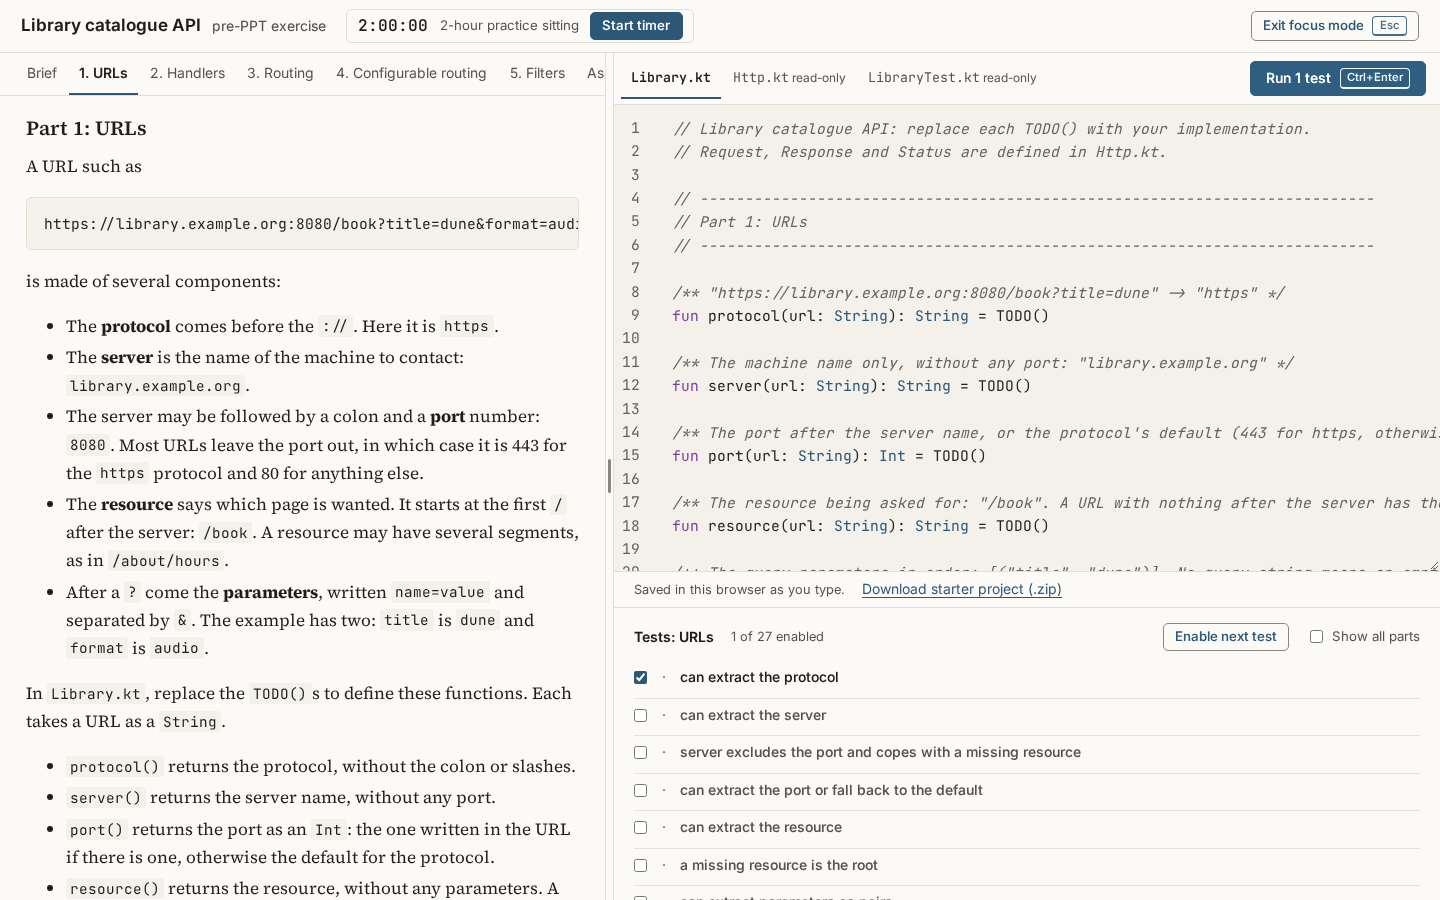
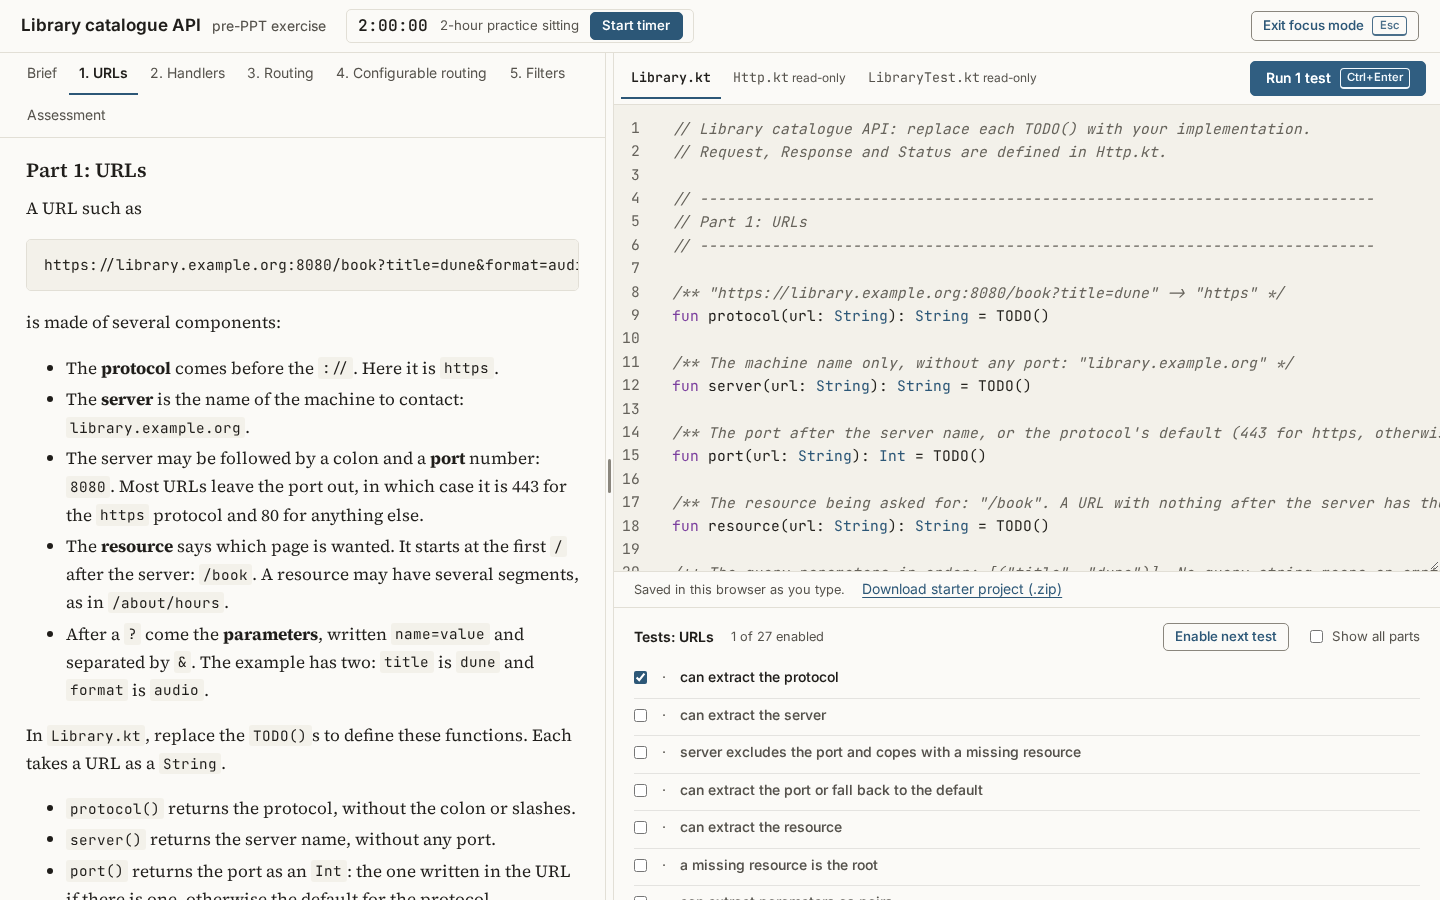
Pre-PPT: part tabs wrap instead of clipping; e2e check that every tab fits its row
The spec tab row was a horizontal scroller, so at 1440px the last tab was cut
off. It now wraps onto a second line at any pane width, the instructions pane
has a minimum width, and tests assert no tab leaves the row at 1440, 1280,
with the divider at its minimum, and at phone width, in and out of focus mode.

Changed region(s): [[0.0312, 0.28, 0.4062, 1.0], [0.0, 0.1244, 0.125, 0.2489], [0.1875, 0.2178, 0.4062, 0.2489]]

diff --git a/tests/smoke.spec.ts b/tests/smoke.spec.ts
@@ -192,6 +192,48 @@ test.describe('pre-PPT', () => {
     await expect(page.getByRole('button', { name: /^Run 3 tests/ })).toBeVisible()
   })
 
+  // Every part tab must be fully inside the tab row: none clipped, none hidden behind a scroll.
+  for (const [width, height, split] of [
+    [1440, 900, null],
+    [1280, 800, null],
+    [1440, 900, 25],
+    [1280, 800, 25],
+    [1024, 768, 25],
+    [390, 844, null],
+  ] as [number, number, number | null][]) {
+    for (const focus of [false, true]) {
+      test(`part tabs fit at ${width}px${split ? `, divider at ${split}%` : ''}${focus ? ', focus mode' : ''}`, async ({ page }) => {
+        await page.setViewportSize({ width, height })
+        await page.addInitScript(
+          ([split, focus]) => {
+            if (split) localStorage.setItem('ikp:ui:split:preppt', String(split))
+            if (focus) localStorage.setItem('ikp:ui:focus', 'true')
+          },
+          [split, focus] as const,
+        )
+        await page.goto('#/week/week1/pre-ppt')
+        const row = page.getByRole('tablist', { name: 'Specification' })
+        await expect(row.getByRole('tab')).toHaveCount(7)
+        await expect(row.getByRole('tab', { name: 'Assessment' })).toBeVisible()
+        const { box, tabs, scrollWidth, clientWidth } = await row.evaluate((el) => ({
+          box: el.getBoundingClientRect().toJSON(),
+          tabs: [...el.querySelectorAll('[role=tab]')].map((t) => t.getBoundingClientRect().toJSON()),
+          scrollWidth: el.scrollWidth,
+          clientWidth: el.clientWidth,
+        }))
+        expect(scrollWidth).toBeLessThanOrEqual(clientWidth)
+        for (const t of tabs) {
+          expect(t.left).toBeGreaterThanOrEqual(box.left - 0.5)
+          expect(t.right).toBeLessThanOrEqual(box.right + 0.5)
+          expect(t.bottom).toBeLessThanOrEqual(box.bottom + 0.5)
+        }
+        // The last tab works, wherever it wrapped to.
+        await row.getByRole('tab', { name: 'Assessment' }).click()
+        await expect(page.getByRole('heading', { level: 2, name: 'Assessing yourself' })).toBeVisible()
+      })
+    }
+  }
+
   test('focus mode hides the navigation, persists, and Esc leaves it after a confirm', async ({ page }) => {
     await page.goto('#/week/week1/pre-ppt')
     await page.getByRole('button', { name: 'Start timer' }).click()

diff --git a/src/styles/app.css b/src/styles/app.css
@@ -1008,7 +1008,7 @@ input[type='radio'] {
 }
 .wv-panes {
   display: grid;
-  grid-template-columns: var(--split, 42%) 9px minmax(0, 1fr);
+  grid-template-columns: minmax(16rem, var(--split, 42%)) 9px minmax(0, 1fr);
   flex: 1;
   min-height: 0;
 }
@@ -1481,4 +1481,11 @@ body.dragging {
 /* In the list of all questions, editors start shorter; the one-at-a-time view is the place to work. */
 .page .question .editor-box {
   --editor-min: calc(7 * 1.6 * var(--code-size) + 1.5rem);
+}
+
+/* The spec's part tabs wrap onto a second line rather than clip or scroll, at any pane width. */
+.wv-instructions > .tabs {
+  flex-wrap: wrap;
+  overflow: visible;
+  row-gap: 0;
 }
